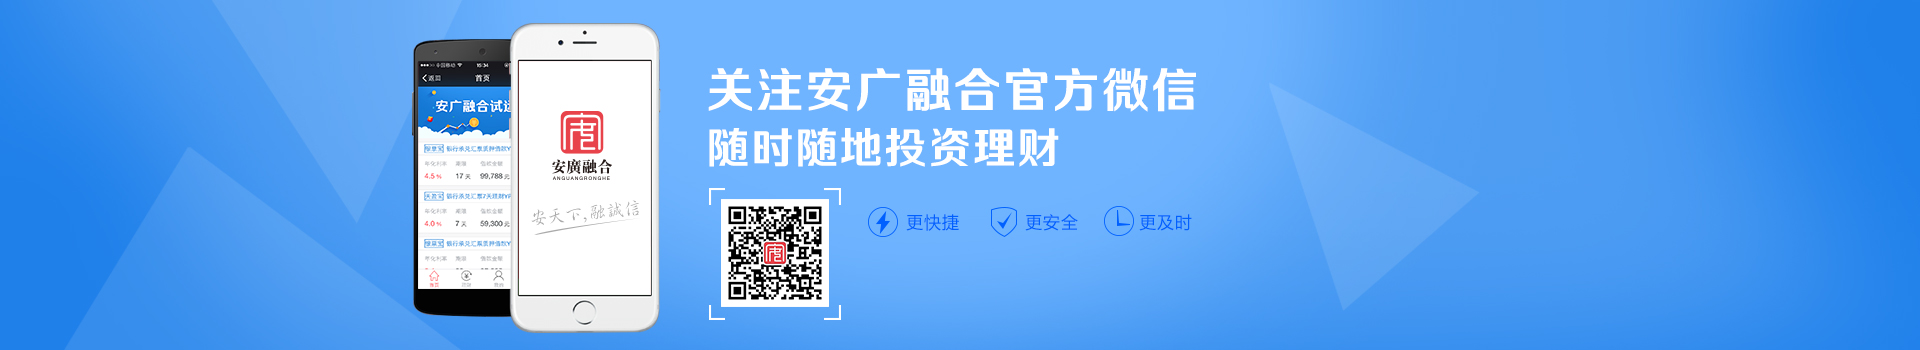
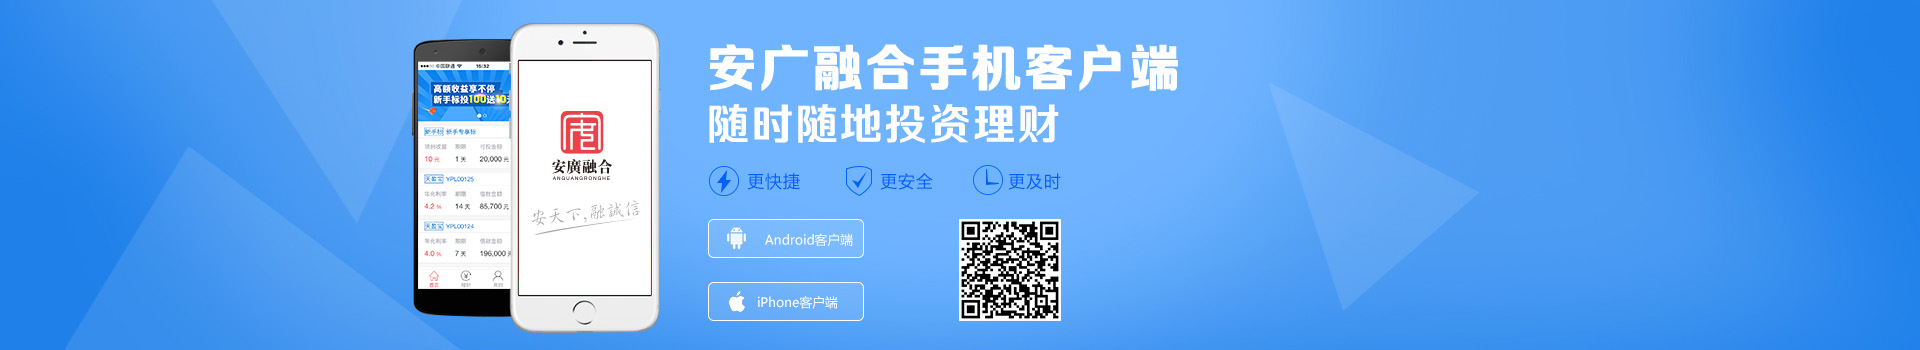
安广手机客户端banner更换以及活动页面增加

Changed region(s): [[0.3438, 0.1143, 0.625, 0.9143], [0.2188, 0.1714, 0.2812, 0.6571], [0.2188, 0.6857, 0.2812, 0.7429]]

diff --git a/Agp2p.Web/templates/AnGuang/index.html b/Agp2p.Web/templates/AnGuang/index.html
@@ -60,18 +60,8 @@
                     <a href='<%linkurl("activity_rewards")%>' target="_blank" class="banner2"></a>
                 </div>
                 <div class="item">
-                    <a href='<%linkurl("article_show",195)%>' target="_blank" class="banner3"></a>
+                    <a href='<%linkurl("activity_apps")%>' target="_blank" class="banner3"></a>
                 </div>
-                <!--Left and right controls -->
-                <!--<a class="left carousel-control" href="#bannerCarousel" role="button" data-slide="prev">
-                    <span class="glyphicon glyphicon-chevron-left" aria-hidden="true"></span>
-                    <span class="sr-only">Previous</span>
-                </a>
-                <a class="right carousel-control" href="#bannerCarousel" role="button" data-slide="next">
-                    <span class="glyphicon glyphicon-chevron-right" aria-hidden="true"></span>
-                    <span class="sr-only">Next</span>
-                </a>-->
-
             </div>
         </div>
     </div>

diff --git a/Agp2p.Web/templates/AnGuang/activity_apps.html b/Agp2p.Web/templates/AnGuang/activity_apps.html
@@ -1,0 +1,26 @@
+<!DOCTYPE html>
+<html lang="en">
+<head>
+    <meta charset="UTF-8">
+    <title>安广融合手机客户端随时随地投资理财</title>
+    <link href="<%templateskin%>/less/bootstrap.glyphicons.min.css" rel="stylesheet" />
+    <script src="<%templateskin%>/build/commons.bundle.js"></script>
+    <script src="<%templateskin%>/build/index.bundle.js"></script>
+    <style>
+        body {  margin: 0; }
+        .activity-page {
+            height: 3100px;
+            background: url("<%templateskin%>/imgs/index/activity_apps_bg.jpg") no-repeat center top;
+        }
+    </style>
+</head>
+<body>
+<!--head-->
+<%template src="_header.html"%>
+<!--head end-->
+<div class="activity-page"></div>
+<!--footer-->
+<%template src="_footer.html"%>
+<!--footer end-->
+</body>
+</html>
